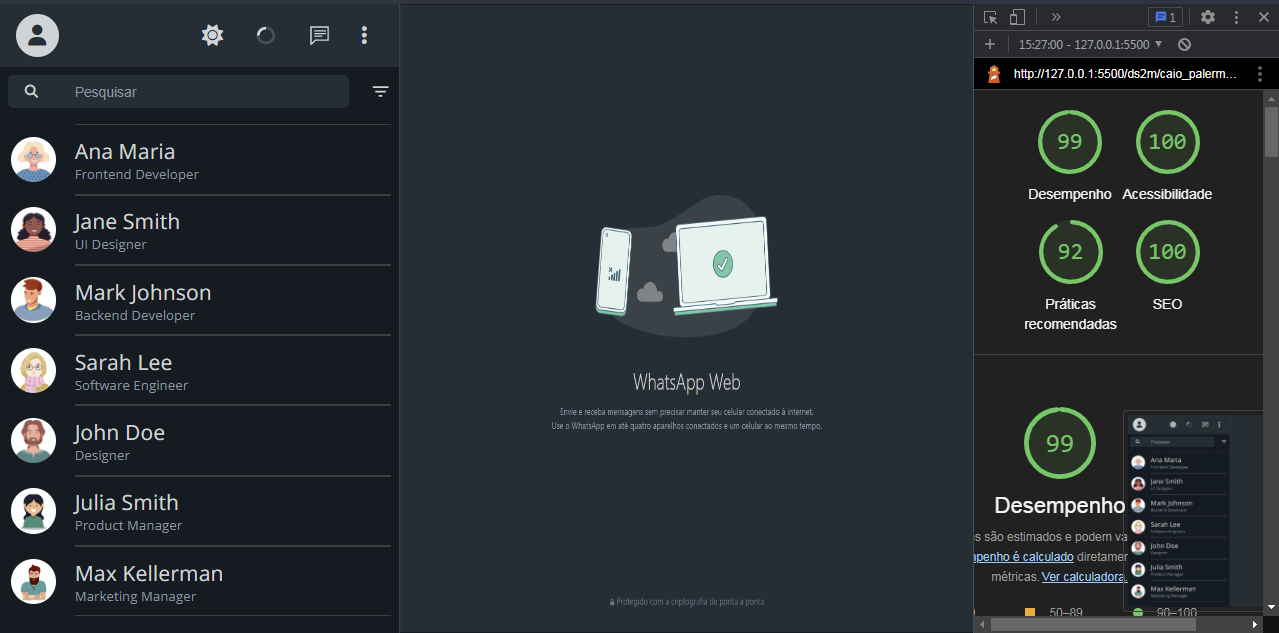
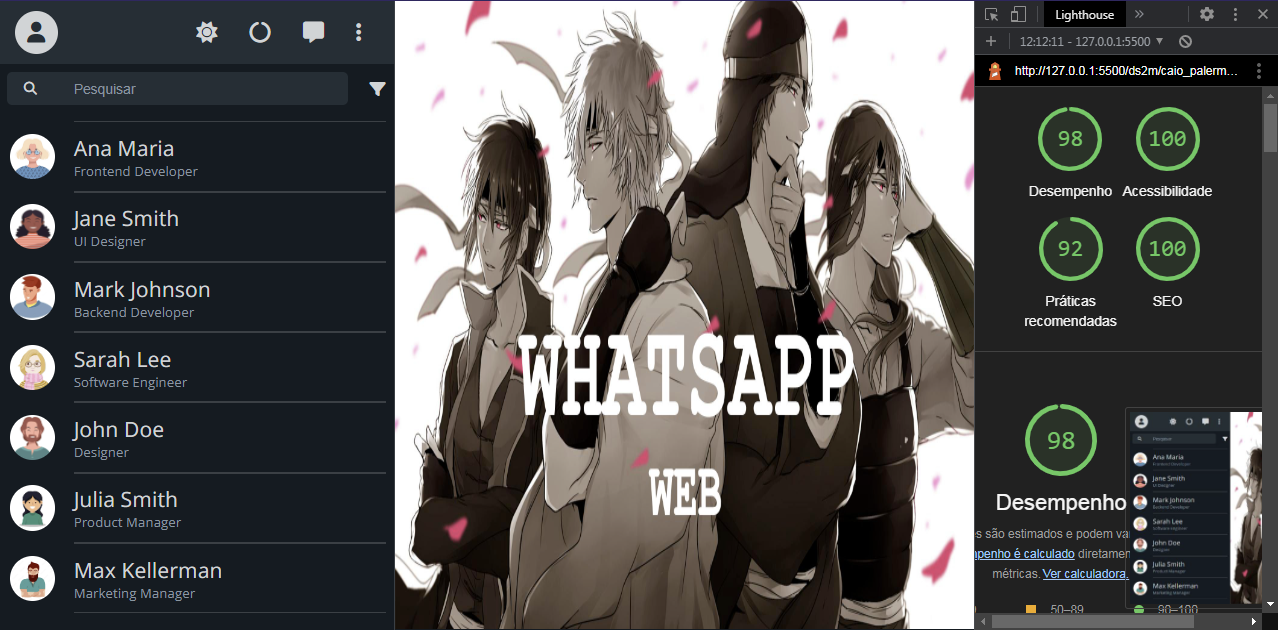
ajustes finos

diff --git a/ds2m/caio_palermo_lemos/index.html b/ds2m/caio_palermo_lemos/index.html
@@ -62,7 +62,10 @@
           </div>
         </div>
         <div class="chats__user-interactions">
-          <i class="fa-solid fa-sun" id="profile-options__change-color"></i>
+          <i
+            class="fa-solid fa-sun"
+            id="profile-options__change-color-mobile"
+          ></i>
           <span class="user-interactions__conversations">Conversas</span>
           <span class="user-interactions__status">Status</span>
           <span class="user-interactions__calls">Chamadas</span>
@@ -70,7 +73,6 @@
         <div class="chats__filter">
           <div class="filter__input-container">
             <input class="filter__input" placeholder="Pesquisar" />
-            <!-- type="search" -->
             <i
               class="fa-solid fa-magnifying-glass"
               id="filter__icon-search"
@@ -82,7 +84,7 @@
       </section>
       <section class="messages">
         <img
-          src="./img/whatsapp-web.png"
+          src="./img/wallpaper-default_compressed.png"
           alt=""
           class="messages__background-default"
         />

diff --git a/ds2m/caio_palermo_lemos/js/change-colors.js b/ds2m/caio_palermo_lemos/js/change-colors.js
@@ -4,14 +4,14 @@ export const changeColors = function () {
   const changeColorIcon = document.getElementById(
     "profile-options__change-color"
   );
+  const changeColorIconMobile = document.getElementById(
+    "profile-options__change-color-mobile"
+  );
   const handleClick = function () {
     const html = document.querySelector(":root");
-    const messagesConversationsContainer = document.querySelector(
-      ".messages__conversations-container"
-    );
-    messagesConversationsContainer.classList.toggle("white");
     html.classList.toggle("white");
   };
 
   changeColorIcon.addEventListener("click", handleClick);
+  changeColorIconMobile.addEventListener("click", handleClick);
 };

diff --git a/ds2m/caio_palermo_lemos/css/chats/chatsUserInteractionsStyle.css b/ds2m/caio_palermo_lemos/css/chats/chatsUserInteractionsStyle.css
@@ -7,3 +7,18 @@
   display: block;
   border: 1px solid var(--text-color);
 }
+
+#profile-options__change-color-mobile::after {
+  margin-top: 8px;
+  content: "";
+  display: block;
+  border-bottom: 3px solid transparent;
+}
+
+#profile-options__change-color-mobile:hover::after {
+  margin-top: 8px;
+  content: "";
+  display: block;
+  border-bottom: 3px solid var(--text-color);
+  transition: all 0.5s;
+}

diff --git a/ds2m/caio_palermo_lemos/js/app.js b/ds2m/caio_palermo_lemos/js/app.js
@@ -8,9 +8,9 @@ import { chargeProfile } from "./charge-profile.js";
 import { showMessages } from "./show-messages.js";
 import { changeColors } from "./change-colors.js";
 
+changeColors();
 chargeContacts(contatos);
 chargeProfile(contatos);
 showMessages(contatos);
 changeElements();
 returnIcon();
-changeColors();

diff --git a/ds2m/caio_palermo_lemos/css/messages/messagesBackgroundStyle.css b/ds2m/caio_palermo_lemos/css/messages/messagesBackgroundStyle.css
@@ -1,8 +1,5 @@
 .messages__background-default {
+  display: block;
   width: 100%;
   height: 99.9%;
-}
-
-.messages__background-default {
-  display: block;
 }
